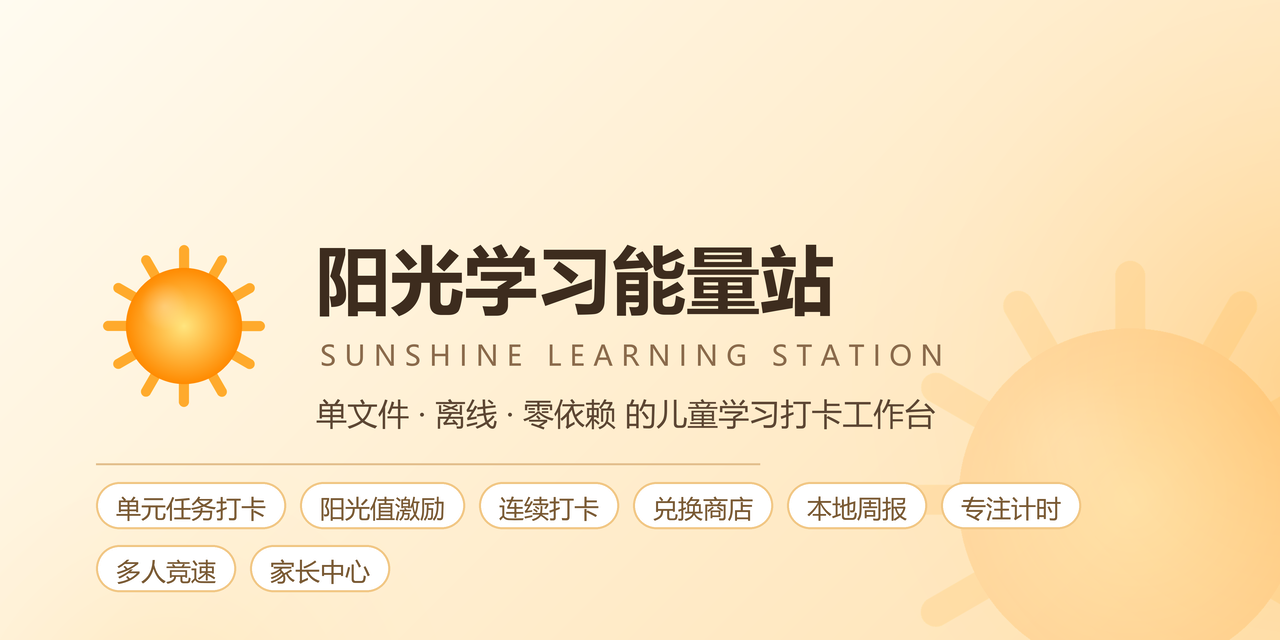
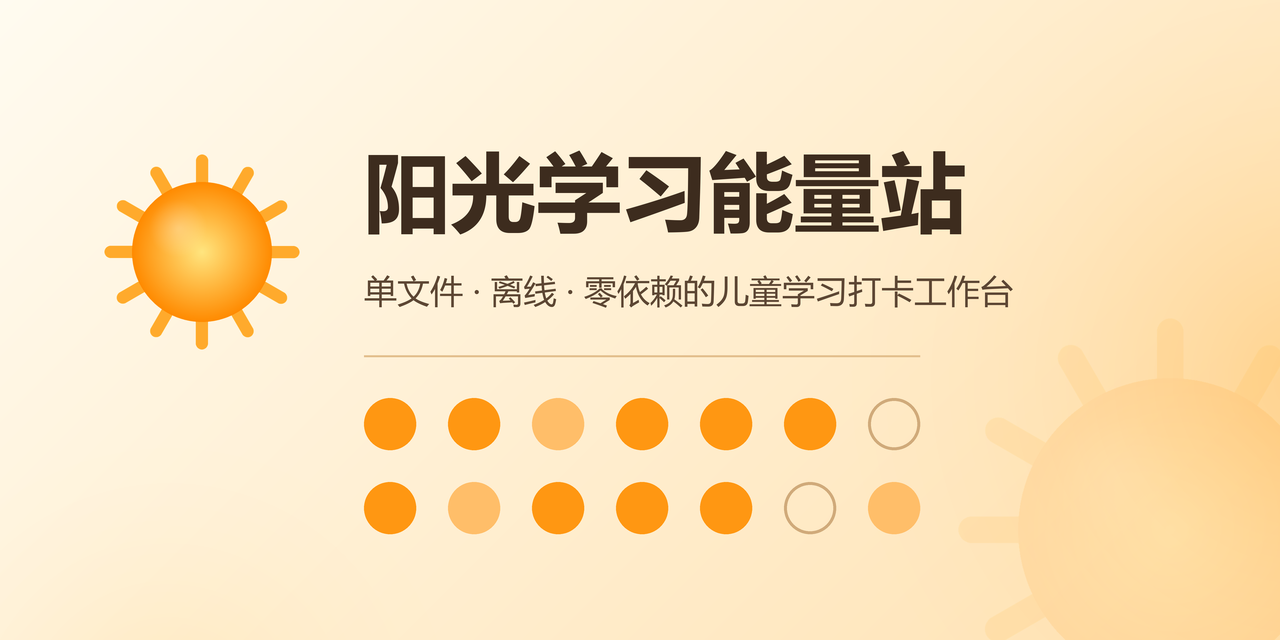
feat(T01825): 重做 GitHub 社交预览图，文字收敛到两行并补 v1.20 视觉语义
旧图实际含 5 行文字（标题/英文行/副标题/两行特性胶囊），违反任务约束「不超过两行」，
且胶囊停留在 FR-01~24 的能力清单；缩略到 480px 宽后胶囊文字不可读。
新图：logo 取自 assets/logo.png（logo 更新后重跑即跟随）作视觉焦点，两行文字，
下方用 FR-28 月历热力图的点阵语言替代文字罗列，右下太阳水印让位不干扰。
尺寸严格 1280×640、156KB（GitHub 上限 1MB），全量重建对 logo/favicon/svg 保持字节幂等。

Changed region(s): [[0.0625, 0.2188, 0.8125, 0.625], [0.0625, 0.5, 0.9688, 1.0], [0.25, 0.5312, 0.75, 0.5938]]

diff --git a/_gen_assets.py b/_gen_assets.py
@@ -5,10 +5,12 @@
 - assets/social-preview.png  —— GitHub 社交预览图（严格 1280×640）
 
 纯 Pillow 绘制（4× 超采样后降采样），中文字体取系统 Microsoft YaHei。
-运行：python _gen_assets.py
+运行：python _gen_assets.py            # 全量重建
+      python _gen_assets.py preview    # 只重建社交预览图（logo 以 assets/logo.png 为源）
 """
 import math
 import os
+import sys
 
 from PIL import Image, ImageDraw, ImageFont
 
@@ -193,10 +195,40 @@ def build_svg_logo():
     return fp
 
 
+def load_sun():
+    """预览图的太阳标识以 assets/logo.png 为源：logo 一旦更新，预览图重跑即跟随。
+    文件缺失时（首次构建）回退到 draw_sun 现算。"""
+    lp = os.path.join(OUT, "logo.png")
+    if os.path.exists(lp):
+        im = Image.open(lp)
+        if im.size == (1024, 1024) and im.mode == "RGBA":
+            return im
+    return draw_sun(1024)
+
+
+def checkin_matrix(d, x, y, cols=7, rows=2, cell=104, r=34):
+    """打卡日历点阵（FR-28 月历热力图的图形语言）——纯图形，不引入文字。
+    x/y/cell/r 均按 CSS px 传入，内部乘超采样倍率。"""
+    pat = [
+        [2, 2, 1, 2, 2, 2, 0],
+        [2, 1, 2, 2, 2, 0, 1],
+    ]
+    c, rad = cell * SS, r * SS
+    for ry in range(rows):
+        for cx in range(cols):
+            lvl = pat[ry % len(pat)][cx % len(pat[0])]
+            px, py = x + cx * c, y + ry * c
+            box = [px, py, px + rad * 2, py + rad * 2]
+            if lvl == 0:
+                d.ellipse(box, outline=(208, 170, 122), width=int(3 * SS))
+            else:
+                col = (255, 190, 105) if lvl == 1 else lerp(SUN_HI, SUN_LO, 0.86)
+                d.ellipse(box, fill=col)
+
+
 def build_preview(sun):
     w, h = W * SS, H * SS
     img = diagonal_gradient(w, h, BG_TL, BG_BR).convert("RGBA")
-    d = ImageDraw.Draw(img)
 
     # 右上暖光晕
     glow = radial_glow(int(1100 * SS / 2) * 2, GLOW, strength=0.42)
@@ -204,86 +236,61 @@ def build_preview(sun):
     # 左下淡光晕
     glow2 = radial_glow(int(700 * SS / 2) * 2, (255, 213, 128), strength=0.30)
     img.alpha_composite(glow2, dest=(int(-180 * SS), int(380 * SS)))
+
+    # 右下装饰太阳水印（让位给点阵带，只占右侧空白区）
+    wm = sun.resize((int(460 * SS), int(460 * SS)), Image.LANCZOS)
+    wm.putalpha(wm.getchannel("A").point(lambda a: int(a * 0.12)))
+    img.alpha_composite(wm, dest=(int(940 * SS), int(300 * SS)))
     d = ImageDraw.Draw(img)
 
-    # 右下装饰太阳水印
-    wm = sun.resize((int(520 * SS), int(520 * SS)), Image.LANCZOS)
-    wm.putalpha(wm.getchannel("A").point(lambda a: int(a * 0.16)))
-    img.alpha_composite(wm, dest=(int(870 * SS), int(240 * SS)))
-    d = ImageDraw.Draw(img)
-
-    # 左侧 logo
-    logo_size = int(176 * SS)
+    # 左侧 logo：视觉焦点，缩略到 480px 宽后仍占约 1/5 画幅
+    logo_size = int(212 * SS)
     lg = sun.resize((logo_size, logo_size), Image.LANCZOS)
-    lx, ly = int(96 * SS), int(238 * SS)
-    img.alpha_composite(lg, dest=(lx, ly))
+    img.alpha_composite(lg, dest=(int(96 * SS), int(146 * SS)))
     d = ImageDraw.Draw(img)
 
-    tx = int(316 * SS)
+    tx = int(364 * SS)
+    f_title = font(FONT_BOLD, int(86 * SS))
+    f_sub = font(FONT_REG, int(33 * SS))
 
-    f_title = font(FONT_BOLD, int(74 * SS))
-    f_en = font(FONT_REG, int(28 * SS))
-    f_sub = font(FONT_REG, int(31 * SS))
+    # 文字严格两行（约束：不超过两行）
+    d.text((tx, int(132 * SS)), "阳光学习能量站", font=f_title, fill=INK)
+    d.text((tx, int(268 * SS)), "单文件 · 离线 · 零依赖的儿童学习打卡工作台",
+           font=f_sub, fill=(92, 70, 51))
 
-    title = "阳光学习能量站"
-    d.text((tx, int(228 * SS)), title, font=f_title, fill=INK)
-
-    en = "S U N S H I N E   L E A R N I N G   S T A T I O N"
-    d.text((tx + int(4 * SS), int(336 * SS)), en, font=f_en, fill=INK_SUB)
-
-    sub = "单文件 · 离线 · 零依赖 的儿童学习打卡工作台"
-    d.text((tx, int(392 * SS)), sub, font=f_sub, fill=(92, 70, 51))
-
-    # 分隔线
-    d.line([(int(96 * SS), int(464 * SS)), (int(760 * SS), int(464 * SS))],
+    # 分隔线 + 打卡点阵带（图形化交代「这是什么产品」，不增加文字行）
+    d.line([(tx, int(356 * SS)), (int(920 * SS), int(356 * SS))],
            fill=(226, 190, 140), width=int(2 * SS))
-
-    # 功能标签
-    chips = ["单元任务打卡", "阳光值激励", "连续打卡", "兑换商店",
-             "本地周报", "专注计时", "多人竞速", "家长中心"]
-    f_chip = font(FONT_REG, int(25 * SS))
-    pad_x, pad_y = int(20 * SS), int(11 * SS)
-    gap = int(14 * SS)
-    gap_y = int(16 * SS)
-    x, y = int(96 * SS), int(482 * SS)
-    row_x = x
-    max_right = int(1184 * SS)
-    for c in chips:
-        tw = text_w(d, c, f_chip)
-        cw = tw + pad_x * 2
-        ch = int(25 * SS) + pad_y * 2
-        if row_x + cw > max_right:  # 换行
-            x = int(96 * SS)
-            row_x = x
-            y += ch + gap_y
-        rounded_rect(d, [x, y, x + cw, y + ch], radius=ch // 2,
-                     fill=(255, 255, 255, 205), outline=(240, 197, 130), width=int(2 * SS))
-        d.text((x + pad_x, y + pad_y - int(2 * SS)), c, font=f_chip, fill=(120, 88, 50))
-        x += cw + gap
-        row_x = x
+    checkin_matrix(d, tx, int(398 * SS), cell=84, r=26)
 
     img = img.resize((W, H), Image.LANCZOS)
     img.convert("RGB").save(os.path.join(OUT, "social-preview.png"), optimize=True)
 
 
+def verify_preview():
+    p = os.path.join(OUT, "social-preview.png")
+    im = Image.open(p)
+    assert im.size == (1280, 640), im.size
+    size = os.path.getsize(p)
+    assert 0 < size < 1024 * 1024, size   # GitHub 社交预览上限 1MB
+    print("social-preview.png", im.size, im.mode, size, "bytes")
+    return p
+
+
 def main():
+    if len(sys.argv) > 1 and sys.argv[1] == "preview":
+        build_preview(load_sun())
+        verify_preview()
+        return
     sun = build_logo()
-    build_preview(sun)
-    favicon = build_favicon(sun)
-    svg = build_svg_logo()
-    for name in ("logo.png", "social-preview.png"):
-        p = os.path.join(OUT, name)
-        im = Image.open(p)
-        print(name, im.size, im.mode, os.path.getsize(p), "bytes")
-        assert os.path.getsize(p) > 0
-    sp = Image.open(os.path.join(OUT, "social-preview.png"))
-    assert sp.size == (1280, 640), sp.size
-    ico = Image.open(favicon)
-    print("favicon.ico", ico.size, os.path.getsize(favicon), "bytes")
-    assert os.path.getsize(favicon) > 0
-    print("logo.svg", os.path.getsize(svg), "bytes")
-    assert os.path.getsize(svg) > 0
+    build_favicon(sun)
+    build_svg_logo()
+    print("logo.png", Image.open(os.path.join(OUT, "logo.png")).size,
+          os.path.getsize(os.path.join(OUT, "logo.png")), "bytes")
+    build_preview(load_sun())
+    verify_preview()
 
 
 if __name__ == "__main__":
     main()
+
